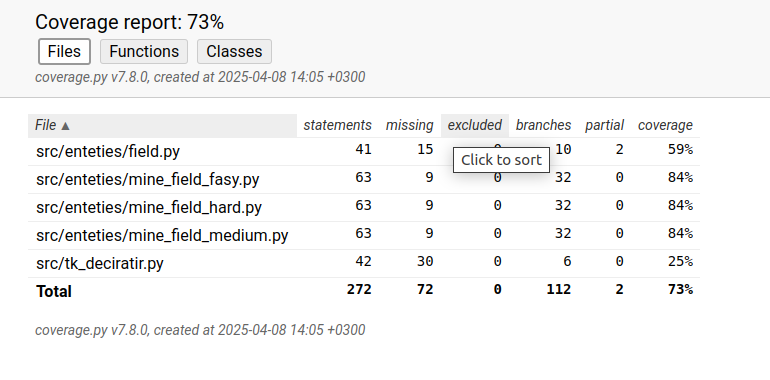
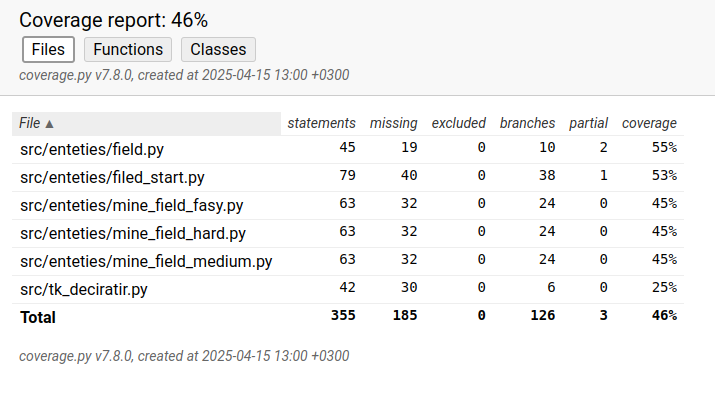
Testes and linting

diff --git a/miinaharava/src/tests/field_start_test.py b/miinaharava/src/tests/field_start_test.py
@@ -15,22 +15,63 @@ class TestDecorator(unittest.TestCase):
     def test_field_values(self):
         self.assertEqual(self.father_wolf, self.wolf.parent)
 
-    # def test_ignore_values(self):
+    def test_set_mines(self):
 
-    #     self.grid_frame = tk.Frame(self.master)
-    #     self.grid_frame.pack(fill=tk.BOTH, expand=True)
+        self.grid_frame = tk.Frame(self.master)
+        self.grid_frame.pack(fill=tk.BOTH, expand=True)
 
-        
-    #     for y in range(self.father_wolf.height):
-    #         for x in range(self.father_wolf.width):
-    #             self.father_wolf.field[y][x] = Field(self.grid_frame, x, y, 100)
-    #             self.father_wolf.field[y][x].draw_field()
 
-    #     self.father_wolf.field[2][2].on_click()
+        for y in range(self.father_wolf.height):
+            for x in range(self.father_wolf.width):
+                self.father_wolf.field[y][x] = Field(self.grid_frame, x, y, 100)
+                self.father_wolf.field[y][x].draw_field()
 
-    #     self.wolf.start(None)
+        self.father_wolf.field[2][2].is_opened = True
 
-    #     boolen = (2,2) in self.wolf.banned
+        self.wolf.banned.add((2,2))
 
-    #     self.assertEqual(True, boolen)
+        self.wolf.set_mines()
 
+        boolen = (2,2) in self.wolf.banned
+
+        print(self.wolf.banned)
+
+        self.assertEqual(True, boolen)
+
+        self.assertEqual(len(self.father_wolf.mines), 10)
+
+        boolen2 = (2,2) not in self.father_wolf.mines
+
+        self.assertEqual(True, boolen2)
+
+    def test_check_mines(self):
+
+        self.grid_frame = tk.Frame(self.master)
+        self.grid_frame.pack(fill=tk.BOTH, expand=True)
+
+
+        for y in range(self.father_wolf.height):
+            for x in range(self.father_wolf.width):
+                self.father_wolf.field[y][x] = Field(self.grid_frame, x, y, 100)
+                self.father_wolf.field[y][x].draw_field()
+
+        self.father_wolf.field[2][2].is_opened = True
+
+        self.wolf.banned.add((2,2))
+
+        self.wolf.set_mines()
+
+        self.wolf.set_mines_near()
+
+        one = next(iter(self.father_wolf.mines))
+
+        print(self.father_wolf.mines)
+
+        print(one)
+
+        x = one[1]
+        y = one[0]
+        print((x,y))
+        boolen = self.father_wolf.field[x][y].is_mine
+
+        self.assertEqual(boolen, True)

diff --git a/miinaharava/src/enteties/mine_field_fasy.py b/miinaharava/src/enteties/mine_field_fasy.py
@@ -16,6 +16,7 @@ class MineFieldEasy:
         self.mines = set()
         self.flags = set()
         self.flags_count = 10
+        self.field_start = FieldStart(self)
 
     def check_flagged(self, x, y):
         if self.field[y][x].is_flagged is True:
@@ -41,7 +42,8 @@ class MineFieldEasy:
                 if self.field[y][x].is_mine is True and self.field[y][x].is_opened is True:
                     print("Destroy the window")
                     time.sleep(1)
-                    label = tk.Label(self.master, bg="lightgrey",text="You Lost!", font=("Arial", 20))
+                    label = tk.Label(self.master, bg="lightgrey",
+                                     text="You Lost!", font=("Arial", 20))
                     label.place(relx=0.5, rely=0.5, anchor='center')
                     self.master.after(2000, self.master.quit)
 
@@ -67,27 +69,25 @@ class MineFieldEasy:
     def create_field(self):
         print("Creating field")
 
-        self.grid_frame = tk.Frame(self.master)
-        self.grid_frame.pack(fill=tk.BOTH, expand=True)
+        grid_frame = tk.Frame(self.master)
+        grid_frame.pack(fill=tk.BOTH, expand=True)
 
         # Generoitu
 
         self.master.update_idletasks()
 
         for y in range(self.height):
-            self.grid_frame.rowconfigure(y, weight=1)
+            grid_frame.rowconfigure(y, weight=1)
         for x in range(self.width):
-            self.grid_frame.columnconfigure(x, weight=1)
+            grid_frame.columnconfigure(x, weight=1)
 
         # Generoitu päättyy
 
         for y in range(self.height):
             for x in range(self.width):
 
-                self.field[y][x] = Field(self.grid_frame, x, y, 100)
+                self.field[y][x] = Field(grid_frame, x, y, 100)
                 self.field[y][x].draw_field()
-
-        self.field_start = FieldStart(self)
 
         self.field_start.start(self.after_field_created)
         # print("Field created")

diff --git a/miinaharava/src/enteties/field.py b/miinaharava/src/enteties/field.py
@@ -36,7 +36,8 @@ class Field:
             print(f"Button ({self.x}, {self.y}) unflagged.")
         else:
             self.is_flagged = True
-            image = ImageTk.PhotoImage(Image.open("src/images/flag.png").resize((self.size, self.size)))
+            image = ImageTk.PhotoImage(Image.open(
+                "src/images/flag.png").resize((self.size, self.size)))
             self.button.config(image=image)
             self.button.image = image
             print(f"Button ({self.x}, {self.y}) flagged.")
@@ -45,7 +46,8 @@ class Field:
         if self.is_opened or self.is_flagged:
             return
         if self.is_mine:
-            image = ImageTk.PhotoImage(Image.open("src/images/mine.png").resize((self.size, self.size)))
+            image = ImageTk.PhotoImage(Image.open(
+                "src/images/mine.png").resize((self.size, self.size)))
             self.button.config(image=image)
             self.button.image = image
 
@@ -55,7 +57,8 @@ class Field:
         else:
             names = ["one", "two", "three", "four",
                      "five", "six", "seven", "eight"]
-            image = ImageTk.PhotoImage(Image.open(f"src/images/{names[self.mines_near_count - 1]}.png").resize((self.size, self.size)))
+            image = ImageTk.PhotoImage(Image.open(
+                f"src/images/{names[self.mines_near_count - 1]}.png").resize((self.size, self.size)))
             self.button.config(image=image)
             self.button.image = image
 

diff --git a/miinaharava/src/enteties/mine_field_medium.py b/miinaharava/src/enteties/mine_field_medium.py
@@ -16,6 +16,7 @@ class MineFieldMedium:
         self.mines = set()
         self.flags = set()
         self.flags_count = 40
+        self.field_start = FieldStart(self)
 
     def check_flagged(self, x, y):
         if self.field[y][x].is_flagged is True:
@@ -68,26 +69,24 @@ class MineFieldMedium:
     def create_field(self):
         print("Creating field")
 
-        self.grid_frame = tk.Frame(self.master)
-        self.grid_frame.pack(fill=tk.BOTH, expand=True)
+        grid_frame = tk.Frame(self.master)
+        grid_frame.pack(fill=tk.BOTH, expand=True)
 
         # Generoitu
 
         self.master.update_idletasks()
 
         for y in range(self.height):
-            self.grid_frame.rowconfigure(y, weight=1)
+            grid_frame.rowconfigure(y, weight=1)
         for x in range(self.width):
-            self.grid_frame.columnconfigure(x, weight=1)
+            grid_frame.columnconfigure(x, weight=1)
 
         # Generoitu päättyy
 
         for y in range(self.height):
             for x in range(self.width):
 
-                self.field[y][x] = Field(self.grid_frame, x, y, 70)
+                self.field[y][x] = Field(grid_frame, x, y, 70)
                 self.field[y][x].draw_field()
 
-        field_start = FieldStart(self)
-
-        field_start.start(self.after_field_created)
+        self.field_start.start(self.after_field_created)

diff --git a/miinaharava/src/enteties/mine_field_hard.py b/miinaharava/src/enteties/mine_field_hard.py
@@ -16,6 +16,7 @@ class MineFieldHard:
         self.mines = set()
         self.flags = set()
         self.flags_count = 99
+        self.field_start = FieldStart(self)
 
     def check_flagged(self, x, y):
         if self.field[y][x].is_flagged is True:
@@ -68,26 +69,24 @@ class MineFieldHard:
     def create_field(self):
         print("Creating field")
 
-        self.grid_frame = tk.Frame(self.master)
-        self.grid_frame.pack(fill=tk.BOTH, expand=True)
+        grid_frame = tk.Frame(self.master)
+        grid_frame.pack(fill=tk.BOTH, expand=True)
 
         # Generoitu
 
         self.master.update_idletasks()
 
         for y in range(self.height):
-            self.grid_frame.rowconfigure(y, weight=1)
+            grid_frame.rowconfigure(y, weight=1)
         for x in range(self.width):
-            self.grid_frame.columnconfigure(x, weight=1)
+            grid_frame.columnconfigure(x, weight=1)
 
         # Generoitu päättyy
 
         for y in range(self.height):
             for x in range(self.width):
 
-                self.field[y][x] = Field(self.grid_frame, x, y, 50)
+                self.field[y][x] = Field(grid_frame, x, y, 50)
                 self.field[y][x].draw_field()
-
-        self.field_start = FieldStart(self)
 
         self.field_start.start(self.after_field_created)

diff --git a/miinaharava/src/enteties/filed_start.py b/miinaharava/src/enteties/filed_start.py
@@ -55,7 +55,7 @@ class FieldStart:
                     print("continue")
                     continue
                 if (y + i < 0 or y + i >= self.height
-                      or x + j < 0 or x + j >= self.width):
+                        or x + j < 0 or x + j >= self.width):
                     print("out of bounds continue")
                     continue
                 if (x + j, y + i) in self.explosion_count:
